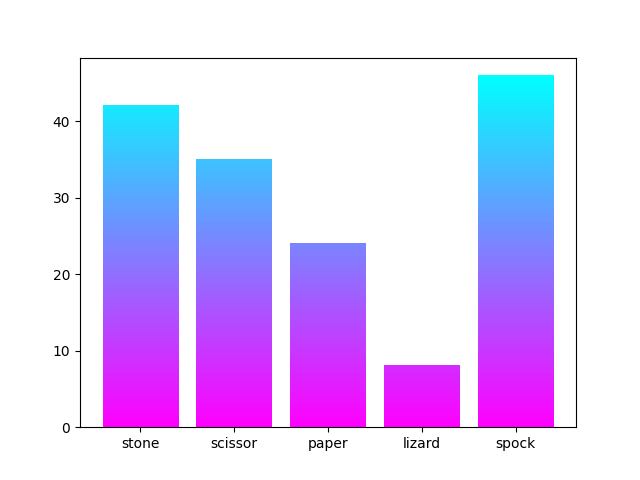
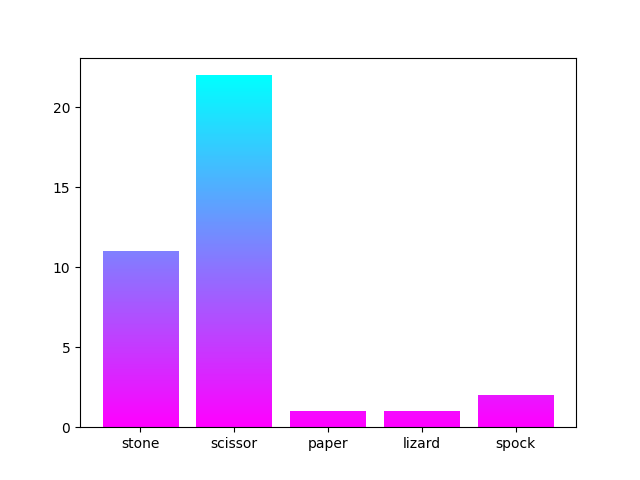
.

diff --git a/SWP-Python/SteinScherePapierEchseSpock/main.py b/SWP-Python/SteinScherePapierEchseSpock/main.py
@@ -9,7 +9,7 @@ from matplotlib import cm
 from matplotlib import pyplot as plt
 import random
 from colorama import Fore, Back, Style
-from classes import player, commandManager, stone, scissor, paper, spock, lizard
+from classes import player, eventManager as em, stone, scissor, paper, spock, lizard, computer
 from screeninfo import get_monitors
 
 def initPlayer(val):
@@ -21,54 +21,42 @@ def initItem(nr, msg="", p=None):
         case 1:
             if p != None: 
                 id = p.getID()
-                logEvent(id, "stone")
+                em.logEvent(id, "stone", True)
             return stone.Stone()
         case 2:
             if p != None:
                 id = p.getID()
-                logEvent(id, "scissor")
+                em.logEvent(id, "scissor", True)
             return scissor.Scissor()
         case 3:
             if p != None:
                 id = p.getID()
-                logEvent(id, "paper")
+                em.logEvent(id, "paper", True)
             return paper.Paper()
         case 4:
             if p != None:
                 id = p.getID()
-                logEvent(id, "lizard")
+                em.logEvent(id, "lizard", True)
             return lizard.Lizard()
         case 5:
             if p != None: 
                 id = p.getID()
-                logEvent(id, "spock")
+                em.logEvent(id, "spock", True)
             return spock.Spock()
 
 def checkMatch(nr, p):
     match nr:
         case -1:
-            logEvent(p.getID(), "lose")
+            em.logEvent(p.getID(), "lose")
             return Fore.LIGHTRED_EX + "You lost!"
         case 0:
-            logEvent(p.getID(), "draw")
+            em.logEvent(p.getID(), "draw")
             return Fore.LIGHTBLACK_EX + "It's a draw!"
         case 1:
-            logEvent(p.getID(), "win")
+            em.logEvent(p.getID(), "win")
             return Fore.LIGHTGREEN_EX + "You won!"
         case other:
             return "Something went wrong!"
-
-def getEvents():
-    with open("SWP-Python\SteinScherePapierEchseSpock\saves.txt", "r") as e:
-        return json.load(e)
-
-def logEvent(user_id, event):
-    events = getEvents()
-    events[user_id][event] += 1
-    
-    with open("SWP-Python\SteinScherePapierEchseSpock\saves.txt", "w") as e:
-        e.write(json.dumps(events))
-    return "Updated " + event + " to " + str(events[user_id][event])
                 
 def login(screen, clock):
     intro = pg.image.load("SWP-Python\SteinScherePapierEchseSpock\pics_gifs\intro.jpg").convert()
@@ -132,7 +120,7 @@ def difficulty(p, diff):
         case 0:
             return random.randint(1,5)
         case 1:
-            e = getEvents()
+            e = em.getEvents()
             print(list(e[p.getID()].values())[3:])
             print(list(e[p.getID()].values())[3:].index(max(list(e[p.getID()].values())[3:])))
             chosen = initItem(list(e[p.getID()].values())[3:].index(max(list(e[p.getID()].values())[3:]))+1)
@@ -154,6 +142,7 @@ def game(screen, clock, p, d):
         for event in pg.event.get():
             if event.type == pg.KEYDOWN:
                     if event.key == pg.K_ESCAPE:
+                        em.patternFile(False)
                         pg.quit()
                         sys.exit()
             if event.type == pg.MOUSEBUTTONDOWN:
@@ -193,7 +182,7 @@ def gradientbars(bars,ydata,cmap):
                   norm=cm.colors.NoNorm(vmin=0,vmax=1), cmap=plt.get_cmap(cmap)) 
             
 def stats(screen, clock, p, d):
-    e = getEvents()
+    e = em.getEvents()
     pStats = e[p.getID()]
     names = list(pStats.keys())
     values = list(pStats.values())
@@ -201,7 +190,7 @@ def stats(screen, clock, p, d):
     gradientbars(ax1.bar(names[:3], values[:3]), values[:3], "cool_r")
     plt.savefig("SWP-Python\SteinScherePapierEchseSpock\pics_gifs/outcomes.png")
     fig2, ax2 = plt.subplots()
-    gradientbars(ax2.bar(names[3:], values[3:]), values[3:], "cool_r")
+    gradientbars(ax2.bar(names[3:8], values[3:8]), values[3:8], "cool_r")
     plt.savefig("SWP-Python\SteinScherePapierEchseSpock\pics_gifs/items.png")
     game_btn = pg.Rect(screen.get_width()/8*6, screen.get_height()/16, screen.get_width()/12, screen.get_height()/16)
     screen.fill((255,255,255))
@@ -209,6 +198,7 @@ def stats(screen, clock, p, d):
         for event in pg.event.get():
             if event.type == pg.KEYDOWN:
                     if event.key == pg.K_ESCAPE:
+                        em.patternFile(False)
                         pg.quit()
                         sys.exit()
             if event.type == pg.MOUSEBUTTONDOWN:
@@ -242,12 +232,14 @@ def gameResult(screen, clock, pItem, cItem, out, p, d):
         for event in pg.event.get():
             if event.type == pg.KEYDOWN:
                     if event.key == pg.K_ESCAPE:
+                        em.patternFile(False)
                         pg.quit()
                         sys.exit()
                     elif event.key == pg.K_r:
                         return runGame(p, d)
             if event.type == pg.MOUSEBUTTONDOWN:
                 if exit_btn.collidepoint(event.pos):
+                    em.patternFile(False)
                     pg.quit()
                     sys.exit()                
                 elif restart_btn.collidepoint(event.pos):
@@ -267,6 +259,7 @@ def startGame():
     def start():
         runGame(player.get_value(), difficulty.get_value()[1])
     
+    em.patternFile(True)
     pg.init()
     size = get_monitors()[0].width, get_monitors()[0].height
     screen = pg.display.set_mode(size)
@@ -274,7 +267,7 @@ def startGame():
     menu = pygame_menu.Menu('Welcome', size[0]/2, size[1]/2,
                        theme=pygame_menu.themes.THEME_BLUE)
     player = menu.add.text_input('Name: ')
-    difficulty = menu.add.selector('Difficulty: ', [('Easy', 1), ('Medium', 2)])
+    difficulty = menu.add.selector('Difficulty: ', [('Easy', 1), ('Medium', 2), ("Hard", 3)])
     menu.add.button('Play', start)
     menu.add.button('Quit', pygame_menu.events.EXIT)
     menu.mainloop(screen)
@@ -287,12 +280,14 @@ def runGame(p, d):
     if player is None or isinstance(player, str):
         player = initPlayer(p)
     diff = d
-    chosenItem = initItem(game(screen, clock, player, difficulty), "", player)
-    computer = initItem(difficulty(player, diff))
-    print(chosenItem.itemName() + " vs " + computer.itemName())
-    outcome = (checkMatch(chosenItem.checkStats(computer.itemName()), player))
+    chosenItem = initItem(game(screen, clock, player, diff), "", player)
+    c = computer.Computer(diff)
+    print(c.calcMove(player))
+    computerItem = initItem(c.calcMove(player))
+    print(chosenItem.itemName() + " vs " + computerItem.itemName())
+    outcome = (checkMatch(chosenItem.checkStats(computerItem.itemName()), player))
     print(outcome)
-    gameResult(screen, clock, chosenItem.itemName(), computer.itemName(), outcome.split("m")[1], player, diff)
+    gameResult(screen, clock, chosenItem.itemName(), computerItem.itemName(), outcome.split("m")[1], player, diff)
 
 if __name__ == "__main__":
     startGame()

diff --git a/SWP-Python/SteinScherePapierEchseSpock/classes/computer.py b/SWP-Python/SteinScherePapierEchseSpock/classes/computer.py
@@ -1,0 +1,46 @@
+import random
+import main
+from classes import eventManager as em
+
+class Computer:
+    
+    def __init__(self, difficulty):
+        self.difficulty = difficulty
+
+    def calcMove(self, player):
+        match self.difficulty:
+            case 0:
+                return random.randint(1,5)
+
+            case 1:
+                e = em.getEvents()
+                print(list(e[player.getID()].values())[3:8])
+                print(list(e[player.getID()].values())[3:8].index(max(list(e[player.getID()].values())[3:8])))
+                chosen = main.initItem(list(e[player.getID()].values())[3:].index(max(list(e[player.getID()].values())[3:8]))+1)
+                counters = list(chosen.getStats().values())
+                indices = [i for i, x in enumerate(counters) if x == -1]
+                return indices[random.randint(0,1)]+1
+
+            case 2:
+                e = em.getEvents()
+                pick = em.getPatterns()
+                p = e[player.getID()]["patterns"]
+
+                if pick["lastPick"] == "0":
+                    return random.randint(1,5)
+
+                evaluations = {"stone": 0, "scissor": 0, "paper": 0, "lizard": 0, "spock": 0}
+                keys = list(evaluations.keys())
+                for i in range(len(p)):
+                    picks = list(p.keys())[i].split("-")
+                    if picks[0] == pick["lastPick"]:
+                        tempItem = main.initItem(int(picks[1]))
+                        stats = tempItem.getStats()
+                        for j in range(5):
+                            if stats[keys[j]] == -1:
+                                evaluations[keys[j]] += p[list(p.keys())[i]]
+                bestItem = 0
+                for i in range(1, len(evaluations)):
+                    if evaluations[keys[bestItem]] < evaluations[keys[i]]:
+                        bestItem = i
+                return bestItem+1

diff --git a/SWP-Python/SteinScherePapierEchseSpock/classes/eventManager.py b/SWP-Python/SteinScherePapierEchseSpock/classes/eventManager.py
@@ -1,0 +1,45 @@
+import json
+import os
+
+def patternFile(create):
+    if create:
+        with open("SWP-Python\SteinScherePapierEchseSpock/temp.txt", "w") as e:
+            e.write(json.dumps({"lastPick": "0", "doublePattern": "0-0"}))
+    else:
+        os.remove("SWP-Python\SteinScherePapierEchseSpock/temp.txt")
+
+def getPatterns():
+    with open("SWP-Python\SteinScherePapierEchseSpock/temp.txt", "r") as e:
+        return json.load(e)
+
+def savePatterns(patterns):
+    with open("SWP-Python\SteinScherePapierEchseSpock/temp.txt", "w") as e:
+        e.write(json.dumps(patterns))
+
+def getEvents():
+    with open("SWP-Python\SteinScherePapierEchseSpock\saves.txt", "r") as e:
+        return json.load(e)
+
+def logEvent(user_id, event, pattern=False):
+    events = getEvents()
+    events[user_id][event] += 1
+    
+    if pattern:
+        patterns = getPatterns()
+        dP = patterns["doublePattern"].split("-")
+        dP = [int(dP[1]), list(events[user_id].keys()).index(event)-2]
+        patterns["lastPick"] = str(dP[0])
+        patterns["doublePattern"] = str(dP[0])+"-"+str(dP[1])
+        savePatterns(patterns)
+        if 0 in dP:
+            None
+        else:
+            p = events[user_id]["patterns"]
+            if str(dP[0])+"-"+str(dP[1]) in p:
+                p[str(dP[0])+"-"+str(dP[1])] += 1
+            else:
+                p[str(dP[0])+"-"+str(dP[1])] = 1
+
+    with open("SWP-Python\SteinScherePapierEchseSpock\saves.txt", "w") as e:
+        e.write(json.dumps(events))
+    return "Updated " + event + " to " + str(events[user_id][event])

diff --git a/SWP-Python/SteinScherePapierEchseSpock/classes/player.py b/SWP-Python/SteinScherePapierEchseSpock/classes/player.py
@@ -11,7 +11,7 @@ class Player:
         else:
             self.ID = len(events[0])+1
             events[0].append(name)
-            events.append({"win": 0, "draw": 0, "lose": 0, "stone": 0, "scissor": 0, "paper": 0, "lizard": 0, "spock": 0})
+            events.append({"win": 0, "draw": 0, "lose": 0, "stone": 0, "scissor": 0, "paper": 0, "lizard": 0, "spock": 0, "patterns": {}})
             with open("SWP-Python\SteinScherePapierEchseSpock\saves.txt", "w") as e:
                 e.write(json.dumps(events))
         
